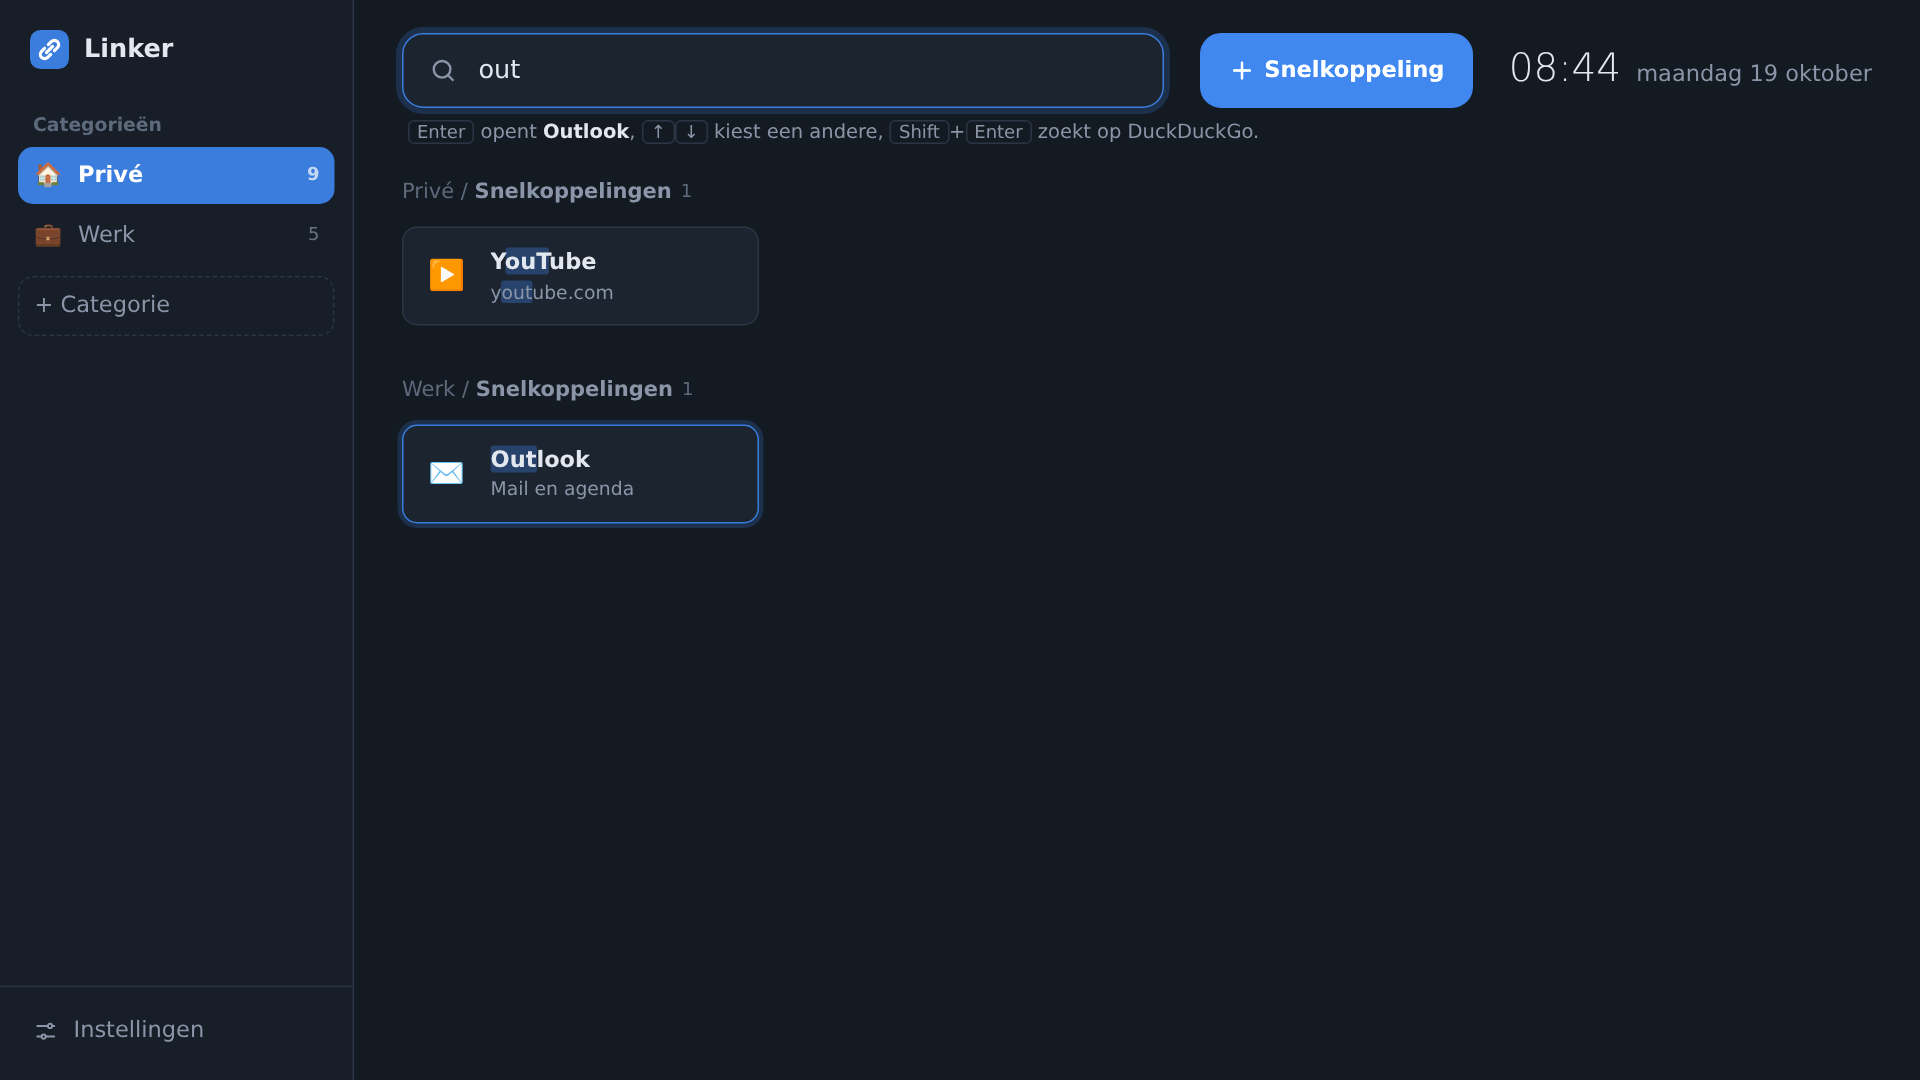
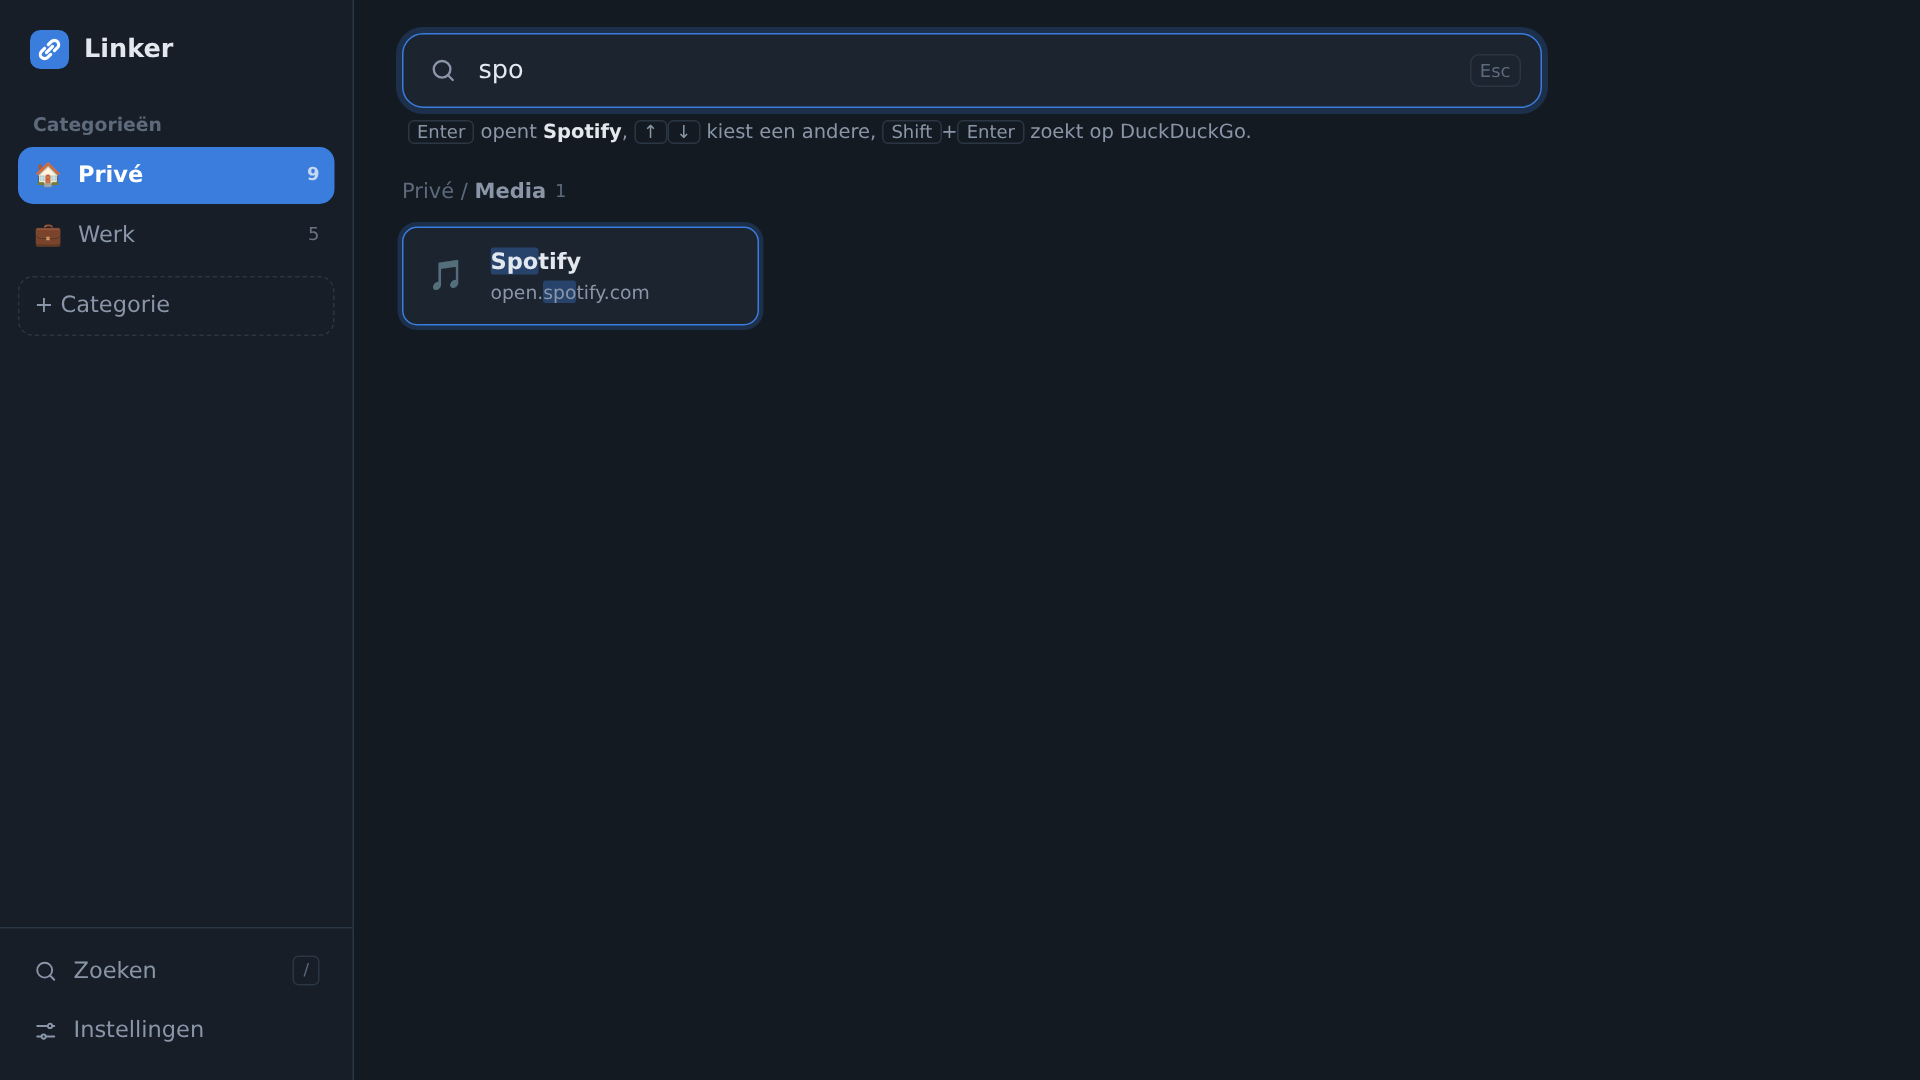
Zoekbalk alleen tonen tijdens het zoeken (0.2.4)

diff --git a/app/static/style.css b/app/static/style.css
@@ -93,8 +93,8 @@ button, input, select { font: inherit; color: inherit; }
 .main { min-width: 0; padding: 22px 32px 48px; }
 
 /* ------------------------------------------------ zoeken en klok */
-.topbar { display: flex; align-items: center; gap: 24px; }
-.search { position: relative; flex: 1; max-width: 760px; }
+.topbar { margin-bottom: 4px; animation: rise .12s ease-out; }
+.search { position: relative; max-width: 760px; }
 .search input {
   width: 100%; height: 50px; padding: 0 48px 0 50px;
   background: var(--surface); border: 1px solid var(--line); border-radius: var(--radius-lg);
@@ -104,10 +104,10 @@ button, input, select { font: inherit; color: inherit; }
 .search input:focus { outline: none; border-color: var(--accent); box-shadow: 0 0 0 4px color-mix(in srgb, var(--accent) 22%, transparent); }
 .search input::-webkit-search-cancel-button { display: none; }
 .search-glyph { position: absolute; left: 18px; top: 50%; width: 19px; height: 19px; transform: translateY(-50%); fill: none; stroke: var(--muted); stroke-width: 2; stroke-linecap: round; pointer-events: none; }
-.slash { position: absolute; right: 14px; top: 50%; transform: translateY(-50%); min-width: 22px; padding: 0 6px; text-align: center; font: 12px/20px var(--font); color: var(--faint); border: 1px solid var(--line); border-radius: var(--radius-sm); }
-.search input:focus ~ .slash, .search input:not(:placeholder-shown) ~ .slash { visibility: hidden; }
-.clock { margin: 0 0 0 auto; display: flex; align-items: baseline; gap: 10px; color: var(--muted); white-space: nowrap; }
-.clock time { font-size: 26px; font-weight: 300; color: var(--fg); font-variant-numeric: tabular-nums; }
+.slash { position: absolute; right: 14px; pointer-events: none; top: 50%; transform: translateY(-50%); min-width: 22px; padding: 0 6px; text-align: center; font: 12px/20px var(--font); color: var(--faint); border: 1px solid var(--line); border-radius: var(--radius-sm); }
+
+.clock { margin: 0 12px 0 0; display: flex; align-items: baseline; gap: 10px; color: var(--muted); white-space: nowrap; }
+.clock time { font-size: 22px; font-weight: 300; color: var(--fg); font-variant-numeric: tabular-nums; }
 .has-bg .clock, .has-bg .col-head h1 { text-shadow: 0 1px 12px rgba(0, 0, 0, .5); }
 .search-hint { min-height: 18px; margin: 8px 4px 14px; font-size: 13px; color: var(--muted); }
 .search-hint b { color: var(--fg); font-weight: 600; }
@@ -313,3 +313,7 @@ body:not(.can-edit) .edit-only, body:not(.can-edit) .section-tools, body:not(.ca
 .section-head:hover .add-inline, .add-inline:focus-visible { opacity: 1; color: var(--accent); }
 .has-bg .add-inline { color: rgba(255, 255, 255, .7); }
 .add-card { font-size: 20px; text-align: center; color: var(--faint); }
+
+.side-kbd { margin-left: auto; font: 11px/18px var(--font); padding: 0 6px; border: 1px solid var(--line); border-radius: 4px; color: var(--faint); }
+.topbar + .col-head { margin-top: 10px; }
+@media (max-width: 760px) { .side-kbd { display: none; } }

diff --git a/app/templates/index.html b/app/templates/index.html
@@ -26,6 +26,10 @@
     </nav>
 
     <div class="sidebar-foot">
+      <button type="button" class="side-btn" id="btn-search" title="Zoeken (of begin gewoon te typen)">
+        <svg viewBox="0 0 24 24" aria-hidden="true"><circle cx="11" cy="11" r="7"/><path d="m20 20-4-4"/></svg>
+        <span>Zoeken</span><kbd class="side-kbd" aria-hidden="true">/</kbd>
+      </button>
       <button type="button" class="side-btn" id="btn-settings">
         <svg viewBox="0 0 24 24" aria-hidden="true"><path d="M4 7h10M18 7h2M4 17h4M12 17h8"/><circle cx="16" cy="7" r="2"/><circle cx="10" cy="17" r="2"/></svg>
         <span>Instellingen</span>
@@ -38,17 +42,17 @@
   </aside>
 
   <main class="main">
-    <div class="topbar">
+    <!-- Zoeken verschijnt pas als je begint te typen (of op / drukt) -->
+    <div class="topbar" id="topbar" hidden>
       <div class="search">
         <svg class="search-glyph" viewBox="0 0 24 24" aria-hidden="true"><circle cx="11" cy="11" r="7"/><path d="m20 20-4-4"/></svg>
         <input id="q" type="search" autocomplete="off" spellcheck="false"
                placeholder="Zoek in je snelkoppelingen of op het web" aria-label="Zoek in je snelkoppelingen of op het web"
                aria-describedby="search-hint">
-        <kbd class="slash" aria-hidden="true">/</kbd>
+        <kbd class="slash" aria-hidden="true">Esc</kbd>
       </div>
-      <p class="clock" id="clock"><time id="time"></time><span id="date"></span></p>
+      <p class="search-hint" id="search-hint" aria-live="polite"></p>
     </div>
-    <p class="search-hint" id="search-hint" aria-live="polite"></p>
 
     <div class="col-head">
       <h1 id="col-title"></h1>
@@ -56,6 +60,7 @@
         <svg viewBox="0 0 24 24" aria-hidden="true"><path d="M4 20h4L19 9l-4-4L4 16v4zM14 6l4 4"/></svg>
       </button>
       <span class="grow"></span>
+      <p class="clock" id="clock"><time id="time"></time><span id="date"></span></p>
       <button type="button" class="btn edit-only" id="add-section" hidden>+ Sectie</button>
     </div>
 

diff --git a/app/static/app.js b/app/static/app.js
@@ -316,13 +316,30 @@ function go(url, newTab) {
   else location.href = url;
 }
 
+/* Zoekbalk is verborgen tot je begint te typen */
+const topbar = $("#topbar");
+function openSearch() {
+  topbar.hidden = false;
+  q.focus();
+}
+function closeSearch() {
+  q.value = "";
+  topbar.hidden = true;
+  q.blur();
+  renderBoard();
+}
+q.addEventListener("blur", () => setTimeout(() => {
+  if (!q.value.trim() && document.activeElement !== q) closeSearch();
+}, 150));
+$("#btn-search").addEventListener("click", openSearch);
+
 q.addEventListener("input", () => {
   if (!q.value.trim()) { renderBoard(); return; }
   renderBoard();
 });
 q.addEventListener("keydown", e => {
   const raw = q.value.trim();
-  if (e.key === "Escape") { q.value = ""; renderBoard(); q.blur(); return; }
+  if (e.key === "Escape") { closeSearch(); return; }
   if ((e.key === "ArrowDown" || e.key === "ArrowUp") && raw) {
     const ids = $$(".card", board).map(el => Number(el.dataset.id));
     if (!ids.length) return;
@@ -354,8 +371,8 @@ document.addEventListener("keydown", e => {
   if (e.ctrlKey || e.metaKey || e.altKey) return;
   const tag = document.activeElement?.tagName;
   if (tag === "INPUT" || tag === "SELECT" || tag === "TEXTAREA") return;
-  if (e.key === "/") { e.preventDefault(); q.focus(); return; }
-  if (e.key.length === 1 && /\S/.test(e.key)) q.focus();   // gewoon beginnen met typen
+  if (e.key === "/") { e.preventDefault(); openSearch(); return; }
+  if (e.key.length === 1 && /\S/.test(e.key)) openSearch();   // gewoon beginnen met typen
 });
 
 /* ================================================================ status */
@@ -938,5 +955,4 @@ window.addEventListener("hashchange", () => {
   const id = Number(location.hash.slice(1));
   if (id && id !== currentId && cols().some(c => c.id === id)) openCollection(id);
 });
-if (matchMedia("(pointer: fine)").matches) q.focus();
 handleAddParam();

diff --git a/README.md b/README.md
@@ -15,7 +15,7 @@ Alles draait in één container met SQLite. De pagina laadt geen scripts, fonts 
   - **sleep** een link of het adres uit een ander tabblad op de pagina (of op een sectie);
   - de **bladwijzer-knop "+ Naar Linker"** (te vinden in *Instellingen*): sleep hem naar je bladwijzerbalk en bewaar elke website met één klik. Na het opslaan ga je terug naar de pagina.
 - **Ordenen**: sleep snelkoppelingen, secties en categorieën om de volgorde te wijzigen. Laat een snelkoppeling of sectie op een categorie in de zijbalk vallen om hem te verplaatsen. Een sectie sorteer je met één klik van A tot Z.
-- **Zoeken met het toetsenbord**: begin gewoon met typen of druk op `/`.
+- **Zoeken met het toetsenbord**: begin gewoon met typen of druk op `/` (of klik op *Zoeken* in de zijbalk). De zoekbalk verschijnt pas dan, en verdwijnt weer met `Esc`.
   - Doorzoekt alle categorieën tegelijk (naam, omschrijving en adres).
   - `Enter` opent de beste treffer, `↑` `↓` kiest een andere, `Esc` wist.
   - `Shift`+`Enter` zoekt op het web: DuckDuckGo, Google, Startpage, Bing, Brave, Kagi, Ecosia of een eigen zoekmachine.
@@ -85,8 +85,8 @@ Open daarna http://localhost:5656.
 
 Alle wijzigingen per versie staan in [CHANGELOG.md](CHANGELOG.md) en onder [Releases](https://github.com/RichrdJ/linker/releases). Het versienummer van je installatie staat onderaan *Instellingen*.
 
-- `:latest` volgt `main`, `:0.2.3` is een vaste versie.
-- Wil je zelf bepalen wanneer je updatet? Zet dan een vast versienummer in `portainer-stack.yml`, bijvoorbeeld `:0.2.3`.
+- `:latest` volgt `main`, `:0.2.4` is een vaste versie.
+- Wil je zelf bepalen wanneer je updatet? Zet dan een vast versienummer in `portainer-stack.yml`, bijvoorbeeld `:0.2.4`.
 
 **Nieuwe versie uitbrengen:** werk `CHANGELOG.md` en `app/VERSION` bij, commit, en push met een tag:
 

diff --git a/CHANGELOG.md b/CHANGELOG.md
@@ -5,6 +5,12 @@ Versienummers volgen [Semantic Versioning](https://semver.org/lang/nl/): het mid
 
 Updaten in Portainer: open de stack → **Pull and redeploy**. De database wordt bij het opstarten automatisch bijgewerkt en je links blijven bewaard.
 
+## [0.2.4] - 2026-10-19
+
+### Gewijzigd
+- De zoekbalk bovenaan is weg. Zoeken werkt nog steeds: begin gewoon te typen of druk op `/`, dan verschijnt de balk. Met `Esc` of door ernaast te klikken verdwijnt hij weer. In de zijbalk staat een knop *Zoeken*, ook handig op je telefoon.
+- De klok staat nu rechts naast de naam van de categorie.
+
 ## [0.2.3] - 2026-10-19
 
 ### Gewijzigd
@@ -56,6 +62,7 @@ Updaten in Portainer: open de stack → **Pull and redeploy**. De database wordt
 - Installeerbaar als app (PWA).
 - Docker-image voor amd64 en arm64 via GitHub Actions, met PUID/PGID.
 
+[0.2.4]: https://github.com/RichrdJ/linker/compare/v0.2.3...v0.2.4
 [0.2.3]: https://github.com/RichrdJ/linker/compare/v0.2.2...v0.2.3
 [0.2.2]: https://github.com/RichrdJ/linker/compare/v0.2.1...v0.2.2
 [0.2.1]: https://github.com/RichrdJ/linker/compare/v0.2.0...v0.2.1
